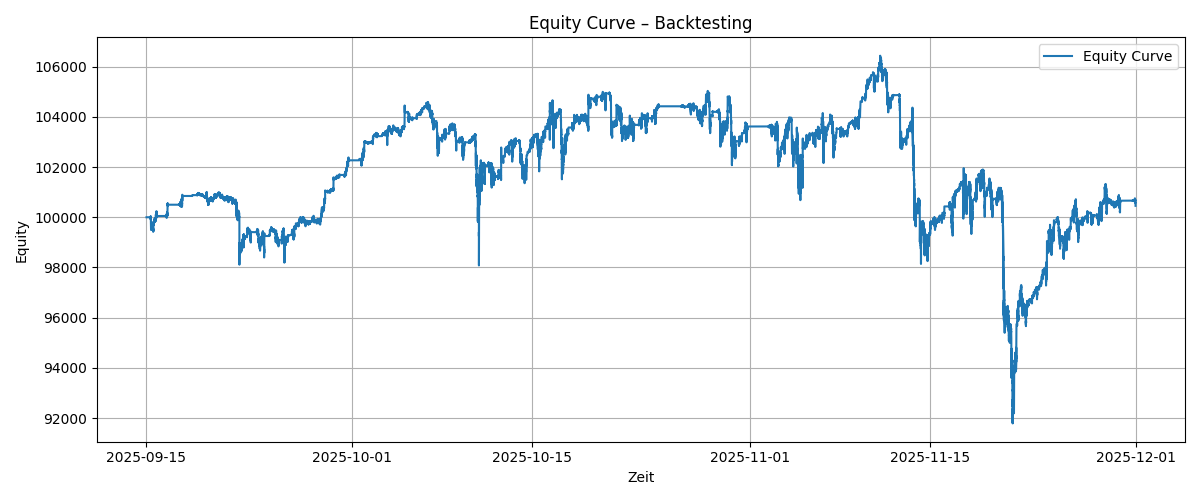
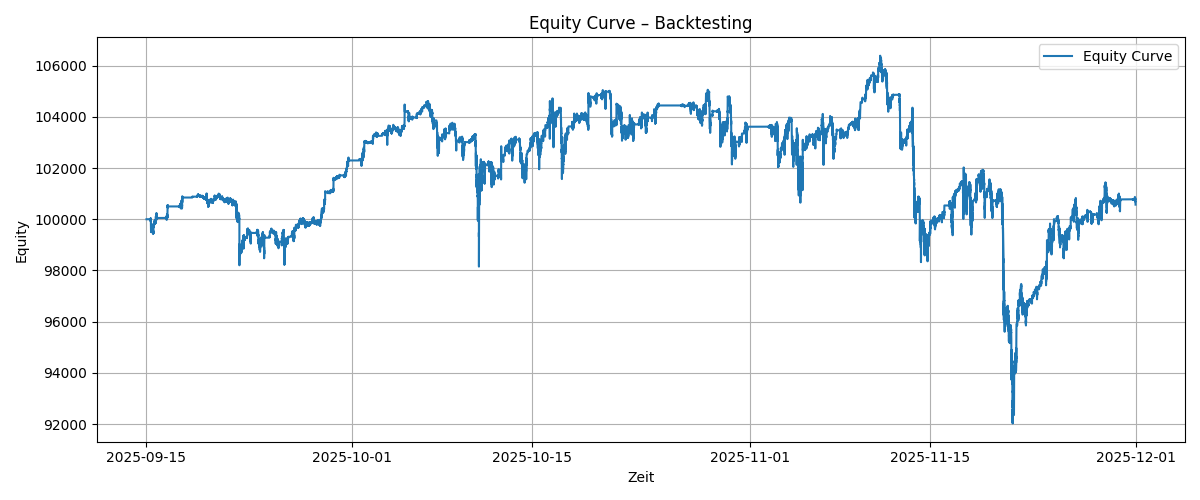
Backtesting doku

diff --git a/experiments/exp_1_2/scripts/09_model_deployment/backtesting.py b/experiments/exp_1_2/scripts/09_model_deployment/backtesting.py
@@ -161,7 +161,7 @@ def setBuyOrder(up_count, row_index, account, positions, timestamp, buying_count
     else:
         buy_pct = 0.05
 
-    if buying_count < 16:  # UP - KAUFEN
+    if buying_count < 11:  # UP - KAUFEN
         trades[timestamp] = "BUY"
         if len(positions) == 0:
             # Erste Position öffnen

diff --git a/experiments/exp_1_2/Exp_1_2.md b/experiments/exp_1_2/Exp_1_2.md
@@ -329,6 +329,7 @@ Insgesamt bestätigen die Ergebnisse, dass die Anpassungen im zweiten Experiment
 
 Um die Performance des Trading-Bots zu verbessern, wurde die Handelsstrategie angepasst.
 Für das Backtesting wird der Zeitraum vom 2025-09-15 bis zum 30-11-2025 verwendet.
+Es wird eine Entscheidung zum Trading getroffen alle 15 Minuten jeweils in Minute [0,15,30,45].
 
 ### Entry and Exit Points
 
@@ -336,7 +337,7 @@ Für das Backtesting wird der Zeitraum vom 2025-09-15 bis zum 30-11-2025 verwend
 
 Bedingungen:
 - predicted class = UP
-- prob_up - prob_down >= 0.1
+- In den vergangenen 15 Minuten wurde der Trend UP am häufigsten vorhergesagt
 - entweder keine Position vorhanden oder Position bereits auf dem Markt
 - es wurde nicht mehr als 10 Mal hintereinander gekauft
 
@@ -344,20 +345,21 @@ Entry Preis: Schlusskurs der aktuellen Stunde
 
 Entry Size: 
 
-Die Größe des Kaufanteils richtet sich nach der vorhergesagten Wahrscheinlichkeit für das UP-Signal.
-- Wahrscheinlichkeit >= 50% -> Kauf für 20% der Buying power
-- Wahrscheinlichkeit >= 40% -> Kauf für 15% der Buying power
-- Wahrscheinlichkeit >= 30% -> Kauf für 10% der Buying power
-- Wahrscheinlichkeit unter 30% -> Kauf für 5% der Buying power
+Die Größe des Kaufanteils richtet sich nach dem Vorkommen des UP-Signals in den letzten 15 Minuten.
+- Vorkommen >= 12 -> Kauf für 20% der Buying power
+- Vorkommen >= 8 -> Kauf für 15% der Buying power
+- Vorkommen >= 5 -> Kauf für 10% der Buying power
+- Vorkommen unter 5 -> Kauf für 5% der Buying power
 
 *Exit Point*
 
 Bedingungen:
 - predicted class = DOWN
-- prob_down - prob_up >= 0.1
+- In den vergangenen 15 Minuten wurde der Trend Down am häufigsten vorhergesagt
 - Position vorhanden und auf dem Markt
 
-Die gesamte Position wird außerdem verkauft, wenn 15 Mal hintereinander ein HOLD-Signal kam. 
+Die gesamte Position wird außerdem verkauft, wenn 10 Mal hintereinander ein HOLD-Signal kam und es häufiger Down-Vorhersagen gab als Up-Vorhersagen.
+Ansonsten wird ein Buy-Signal gesendet. 
 
 Exit Preis: Schlusskurs der aktuellen Stunde
 
@@ -370,29 +372,30 @@ Exit Volumen: 100% der Position
 | Kennzahl               | Experiment 1 | Experiment 2 | Exp.1: BTC Close-Preis | Exp.2: BTC Close-Preis |
 |------------------------|--------------|--------------|------------------------|------------------------|
 | Startkapital           | 100 000,00   | 100 000,00   | 97 771,75              | 115 250, 01            |
-| Finales Kapital        | 110 531,63   | 105152,9     | 109 560,2              | 90 660, 45             |
-| Absoluter Gewinn       | +10 531,63   | +5152.8      | 11 788,45              | -24 589,56             |
-| Relative Rendite       | +10,53 %     | +5.15        | +12,06                 | -21,34                 |
-| Anzahl Trades-Signalen | 416          | 29056        |                        |                        |
+| Finales Kapital        | 110 531,63   | 100 569.68   | 109 560,2              | 90 660, 45             |
+| Absoluter Gewinn       | +10 531,63   | +569.68      | 11 788,45              | -24 589,56             |
+| Relative Rendite       | +10,53 %     | +0.57        | +12,06                 | -21,34                 |
+| Anzahl Trades-Signalen | 416          | 2247         |                        |                        |
 
 
 Die Backtesting-Ergebnisse zeigen, dass beide Experimente eine positive absolute und relative Rendite erzielen konnten, während sich der Bitcoin-Preis im gleichen Zeitraum sehr unterschiedlich entwickelte.
 Im ersten Experiment erwirtschaftet die Handelsstrategie eine Rendite von +10,53 %, was in etwa mit der Entwicklung des Bitcoin-Preises (+12,06 %) vergleichbar ist.
 Dies deutet darauf hin, dass die Strategie in einem überwiegend positiven Marktumfeld konkurrenzfähig ist, ohne jedoch signifikant über der reinen Buy-and-Hold-Strategie zu liegen.
 
-Im zweiten Experiment ergibt sich ein deutlich differenzierteres Bild: Während der Bitcoin-Preis im betrachteten Zeitraum stark fällt (−21,34 %), erzielt die Strategie dennoch eine positive Rendite von +5,15 %.
-Dies zeigt, dass das Modell in der Lage ist, Abwärtsphasen des Marktes teilweise zu vermeiden und das Kapital zu schützen.
+Im zweiten Experiment fällt die Rendite der Strategie mit +0,57 % deutlich geringer aus, bleibt jedoch positiv, obwohl der Bitcoin-Preis im gleichen Zeitraum einen starken Rückgang von −21,34 % verzeichnet.
+Trotz einer deutlich höheren Anzahl an 2 247 Trade-Signalen gelingt es dem Modell, größere Verluste zu vermeiden und das Kapital weitgehend zu erhalten.
+Dies weist darauf hin, dass die Strategie insbesondere in fallenden oder volatilen Marktphasen ihre Stärke in der Risikobegrenzung ausspielt
 
-Insgesamt verdeutlichen die Ergebnisse, dass die entwickelte LSTM-basierte Handelsstrategie insbesondere in volatilen und fallenden Marktphasen einen Mehrwert gegenüber einer passiven Bitcoin-Investition bietet.
+Zusammenfassend lässt sich festhalten, dass die entwickelte LSTM-basierte Handelsstrategie im ersten Experiment eine marktnahe Performance erzielt, während sie im zweiten Experiment ihre Fähigkeit unter Beweis stellt, sich von der negativen Marktentwicklung zu entkoppeln.
 
 *1) Vergleich von Bitcoin-Preis und Portfolioentwicklung*
 
 ![Wertvergleich](images/09_btc_price_equity_comparision_2.png)
 
-- Die Grafik zeigt eine klare Entkopplung zwischen dem Bitcoin-Preisverlauf und der Equity-Kurve, insbesondere in Phasen fallender Kurse.
-- Während der Bitcoin-Preis im betrachteten Zeitraum deutlich an Wert verliert, bleibt die Equity-Kurve vergleichsweise stabil und leicht steigend, was auf eine effektive Risikobegrenzung hinweist.
-- Kurzfristige Drawdowns der Equity sind sichtbar, fallen jedoch signifikant geringer aus als die Verluste des Bitcoin-Preises, was die Robustheit der Handelsstrategie unterstreicht.
-
+- Die Grafik zeigt, dass sich die Equity-Kurve zunehmend vom Bitcoin-Preisverlauf entkoppelt, insbesondere in Phasen starker Kursrückgänge.
+- Während der Bitcoin-Preis im betrachteten Zeitraum deutlich fällt, bleibt die Equity relativ stabil und weist insgesamt einen moderaten Anstieg auf, was auf eine wirksame Risikobegrenzung hindeutet.
+- Kurzfristige Drawdowns der Equity sind sichtbar, fallen jedoch wesentlich geringer aus als die Verluste des Bitcoin-Preises, was die Robustheit der Handelsstrategie unter volatilen Marktbedingungen unterstreicht.
+- 
 *2) Vergleich von Bitcoin-Preis und Portfolioentwicklung (1. Experiment)*
 
 ![Wertvergleich](images/09_btc_price_equity_comparision.png)
